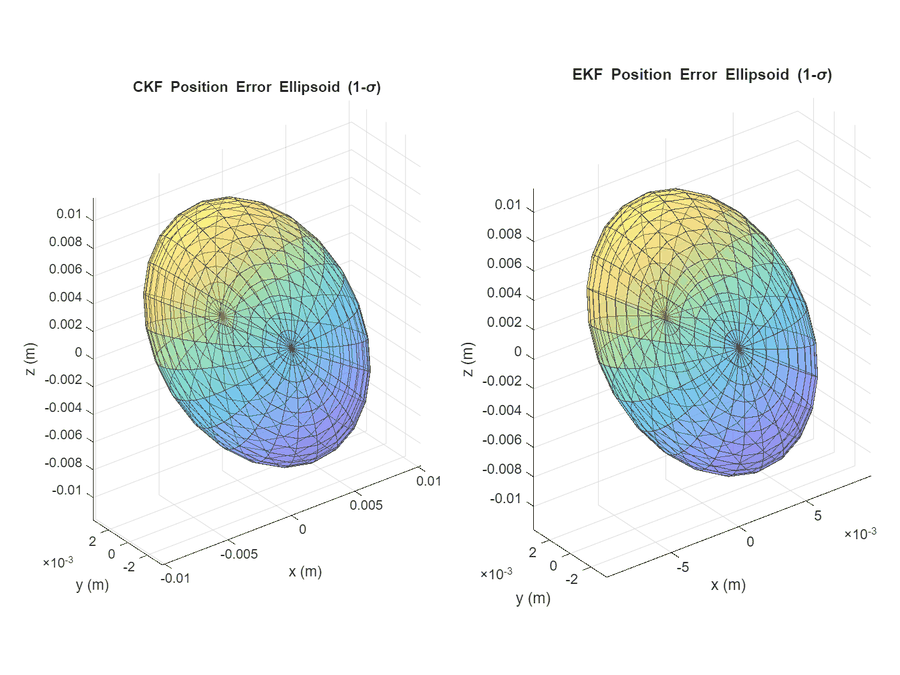
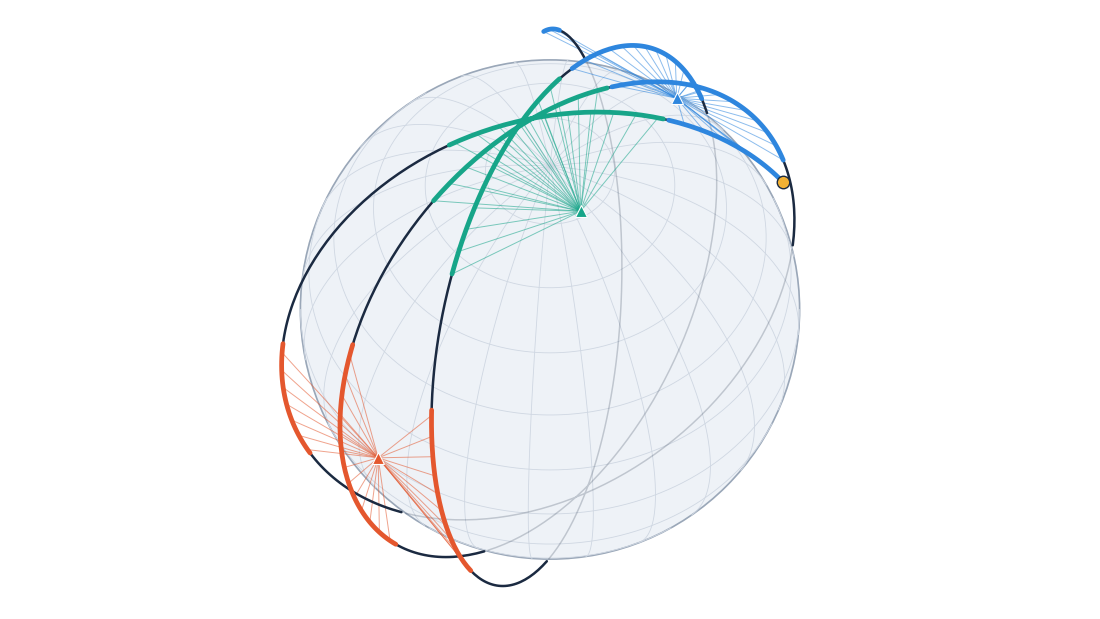
Redraw the orbit determination thumbnail and hero from the tracking data
The old thumbnail was a 4:3 ellipsoid screenshot that the 16:9 card crop
cut the titles off. The new one shows the five-hour arc in the Earth-fixed
frame with all three ground stations, their tracking rays, and each pass
coloured by station, drawn from the project's initial state and its 385
observations. The hero banner uses the same view on the starfield.

diff --git a/index.html b/index.html
@@ -305,7 +305,7 @@
         <article class="project-item">
           <a href="projects/orbitdet.html" data-project="projects/orbitdet.html">
             <div class="project-thumb">
-              <img loading="lazy" src="assets/images/project_orbitdet.webp" alt="Orbit determination error ellipsoids">
+              <img loading="lazy" src="assets/images/project_orbitdet.webp" alt="LEO orbit over a globe with tracking passes from three ground stations">
             </div>
             <div class="project-body">
               <span class="project-context">UCSD MAE182 &middot; 2026</span>

diff --git a/projects/orbitdet.html b/projects/orbitdet.html
@@ -11,8 +11,8 @@
   <meta property="og:type" content="article">
   <meta property="og:url" content="https://ajburns.com/projects/orbitdet.html">
   <meta property="og:image" content="https://ajburns.com/assets/images/project_orbitdet.png">
-  <meta property="og:image:width" content="900">
-  <meta property="og:image:height" content="675">
+  <meta property="og:image:width" content="1100">
+  <meta property="og:image:height" content="619">
   <meta name="twitter:card" content="summary_large_image">
   <link rel="stylesheet" href="../css/experiences.css">
   <style>
